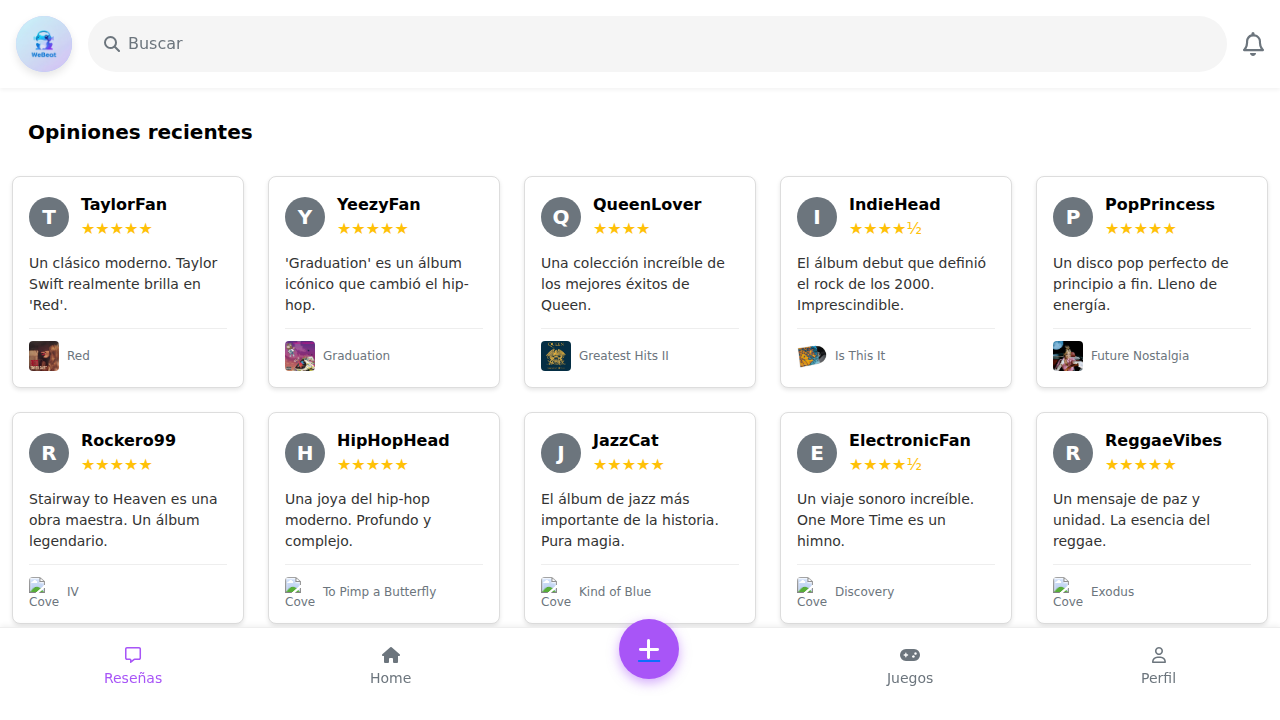
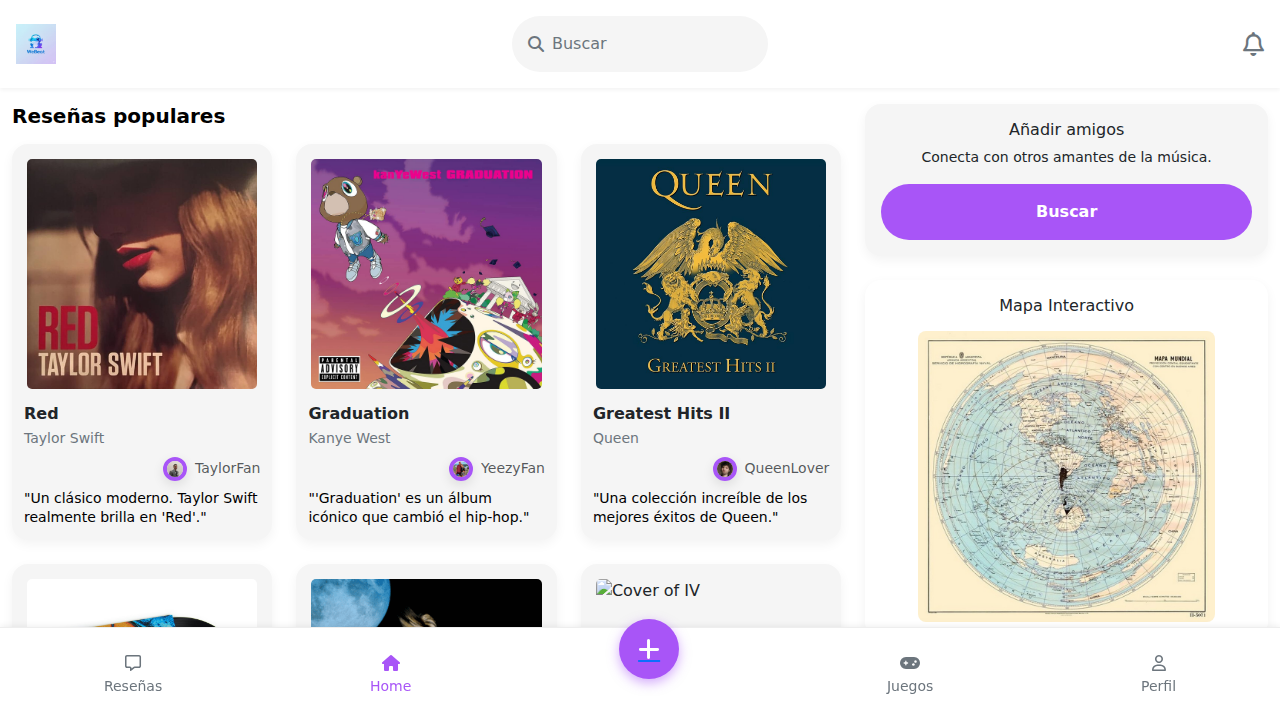
feat: Refactor header to be full-width and consistent
This change refactors the header across all pages to be a full-width, consistent component. The logo is now on the left, and the title or search bar is in the center, following an Instagram-like aesthetic.

This addresses the user's request to have a cleaner, more modern header that is not contained within a card or container. The new header is implemented using a CSS grid layout to ensure proper alignment of elements.

The following pages have been updated:
- main.html
- perfil.html
- juegos.html
- resenas.html
- crear-resena.html

The CSS in `css/brand.css` has been updated with a new `.header-unified` class to support the new layout.

diff --git a/css/brand.css b/css/brand.css
@@ -200,41 +200,48 @@ body {
     padding-bottom: 120px; /* Adjust based on nav height */
 }
 
-/* Header Styles */
-header {
+.header-unified {
+    display: grid;
+    grid-template-columns: 1fr auto 1fr;
+    align-items: center;
+    padding: 1rem;
     background-color: var(--background-dark);
-    box-shadow: 0 2px 4px rgba(0,0,0,0.05);
-    position: sticky;
+    box-shadow: 0 2px 4px rgba(0, 0, 0, 0.05);
+    width: 100%;
     top: 0;
     z-index: 1020;
-    display: flex;
-    align-items: center;
 }
 
-.logo-container {
-    background: linear-gradient(135deg, #e0c3fc 0%, #8ec5fc 100%);
-    border-radius: 50%;
-    padding: 0;
+.header-unified .header-logo-container {
     display: flex;
-    justify-content: center;
-    align-items: center;
-    width: 56px;
-    height: 56px;
-    box-shadow: 0 4px 8px rgba(0,0,0,0.1);
+    justify-content: flex-start;
 }
 
-header .logo {
-    width: 56px;
-    height: 56px;
+.header-unified .header-logo {
+    width: 40px;
+    height: 40px;
+}
+
+.header-unified h1 {
     margin: 0;
-    border-radius: 50%;
-    object-fit: cover;
+    font-size: 1.75rem;
+    font-weight: bold;
+    text-align: center;
+}
+
+.header-icons-container {
+    display: flex;
+    justify-content: flex-end;
+    align-items: center;
+    gap: 1rem;
 }
 
 .search-bar {
+    width: 100%;
     position: relative;
     display: flex;
     align-items: center;
+    justify-content: center;
 }
 
 .search-icon {
@@ -485,58 +492,6 @@ main h5 {
     margin-right: 8px;
 }
 
-/* Page Headers for Juegos and Perfil */
-.page-header {
-    display: flex;
-    align-items: center;
-    padding: 1rem;
-    background-color: var(--background-dark);
-}
-
-.page-header h1 {
-    margin: 0;
-    font-size: 1.75rem;
-    font-weight: bold;
-}
-
-.header-logo-container {
-    margin-right: 1rem;
-}
-
-.header-logo {
-    width: 40px;
-    height: 40px;
-    object-fit: contain;
-    border-radius: 50%;
-}
-
-.page-header-unified {
-    display: flex;
-    align-items: center;
-    justify-content: center; /* Center the title */
-    padding: 1rem;
-    background-color: var(--background-dark);
-    box-shadow: 0 2px 4px rgba(0,0,0,0.05);
-    position: relative; /* Needed for absolute positioning of the logo */
-}
-
-.page-header-unified .header-logo-container {
-    position: absolute; /* Position logo to the left */
-    left: 1rem;
-    top: 50%;
-    transform: translateY(-50%);
-}
-
-.page-header-unified h1 {
-    margin: 0;
-    font-size: 1.75rem;
-    font-weight: bold;
-}
-
-.page-header-unified .header-logo {
-    width: 40px;
-    height: 40px;
-}
 
 /* ==========================================================================
    Responsive Design - Mobile First

diff --git a/main.html b/main.html
@@ -11,15 +11,17 @@
 <body>
     <div class="main-container">
         <!-- Header -->
-        <header class="d-flex justify-content-between align-items-center p-3">
-            <div class="logo-container">
-                <img src="assets/logo.png" alt="WeBeat Logo" class="logo">
+        <header class="header-unified">
+            <div class="header-logo-container">
+                <img src="assets/logo.png" alt="Logo" class="header-logo">
             </div>
-            <div class="search-bar flex-grow-1 mx-3">
+            <div class="search-bar">
                 <i class="fas fa-search search-icon"></i>
                 <input type="text" class="form-control" placeholder="Buscar">
             </div>
-            <i class="far fa-bell notification-icon"></i>
+            <div class="header-icons-container">
+                <i class="far fa-bell notification-icon"></i>
+            </div>
         </header>
 
         <!-- Main Content -->

diff --git a/resenas.html b/resenas.html
@@ -11,15 +11,17 @@
 <body>
     <div class="main-container">
         <!-- Header -->
-        <header class="d-flex justify-content-between align-items-center p-3">
-            <div class="logo-container">
-                <img src="assets/logo.png" alt="WeBeat Logo" class="logo">
+        <header class="header-unified">
+            <div class="header-logo-container">
+                <img src="assets/logo.png" alt="Logo" class="header-logo">
             </div>
-            <div class="search-bar flex-grow-1 mx-3">
+            <div class="search-bar">
                 <i class="fas fa-search search-icon"></i>
                 <input type="text" class="form-control" placeholder="Buscar">
             </div>
-            <i class="far fa-bell notification-icon"></i>
+            <div class="header-icons-container">
+                <i class="far fa-bell notification-icon"></i>
+            </div>
         </header>
 
         <!-- Main Content -->

diff --git a/crear-resena.html b/crear-resena.html
@@ -11,12 +11,15 @@
 <body>
     <div class="main-container">
         <!-- Header -->
-        <header class="d-flex justify-content-between align-items-center p-3">
-            <a href="main.html" class="text-dark">
-                <i class="fas fa-arrow-left"></i>
-            </a>
-            <h5 class="mb-0">Crear Reseña</h5>
-            <button class="btn btn-primary rounded-pill btn-sm">Publicar</button>
+        <header class="header-unified">
+            <div class="header-logo-container">
+                <a href="main.html" class="text-dark me-2">
+                    <i class="fas fa-arrow-left"></i>
+                </a>
+                <img src="assets/logo.png" alt="Logo" class="header-logo">
+            </div>
+            <h1>Crear Reseña</h1>
+            <button class="btn btn-primary rounded-pill btn-sm position-absolute end-0 me-3">Publicar</button>
         </header>
 
         <!-- Main Content -->

diff --git a/juegos.html b/juegos.html
@@ -12,7 +12,7 @@
 <body>
     <div class="main-container">
         <main class="juegos-container">
-            <header class="page-header-unified">
+            <header class="header-unified">
                 <div class="header-logo-container">
                     <img src="assets/logo.png" alt="Logo" class="header-logo">
                 </div>

diff --git a/perfil.html b/perfil.html
@@ -10,7 +10,7 @@
 </head>
 <body>
     <div class="main-container">
-        <header class="page-header-unified">
+        <header class="header-unified">
             <div class="header-logo-container">
                 <img src="assets/logo.png" alt="Logo" class="header-logo">
             </div>

diff --git a/verify_header.py b/verify_header.py
@@ -5,8 +5,7 @@ def verify_header():
         browser = p.chromium.launch(headless=True)
         page = browser.new_page()
         page.goto("http://localhost:8000/main.html")
-        header = page.locator("header")
-        header.screenshot(path="verification.png")
+        page.screenshot(path="verification.png")
         browser.close()
 
 if __name__ == "__main__":
